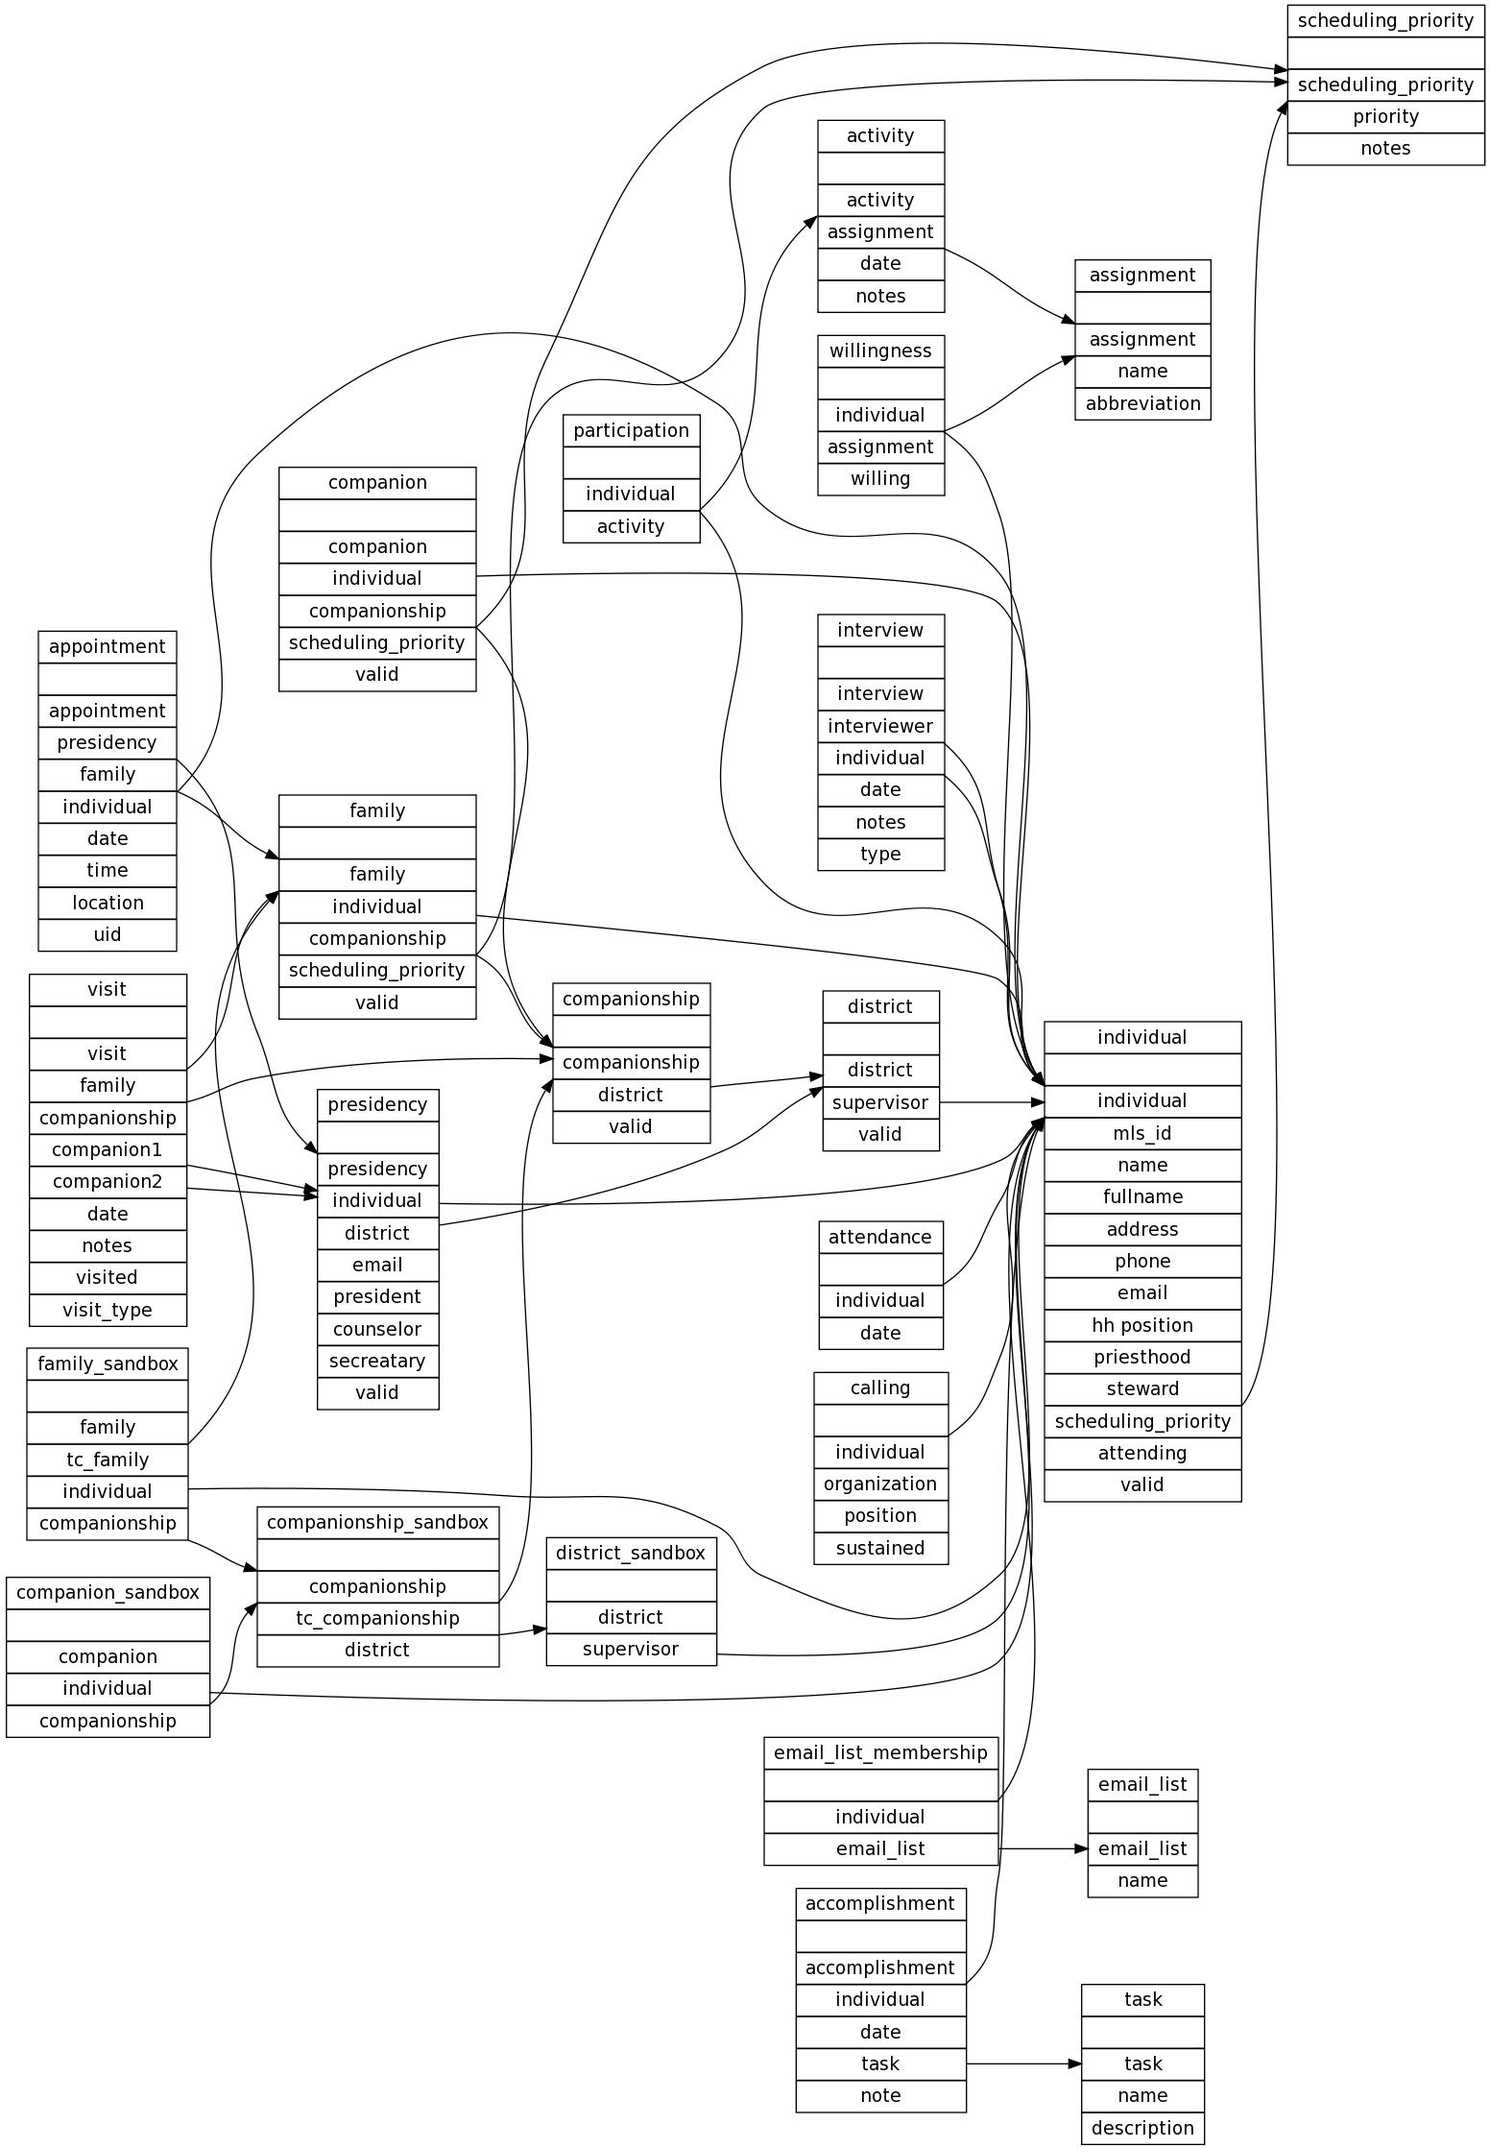
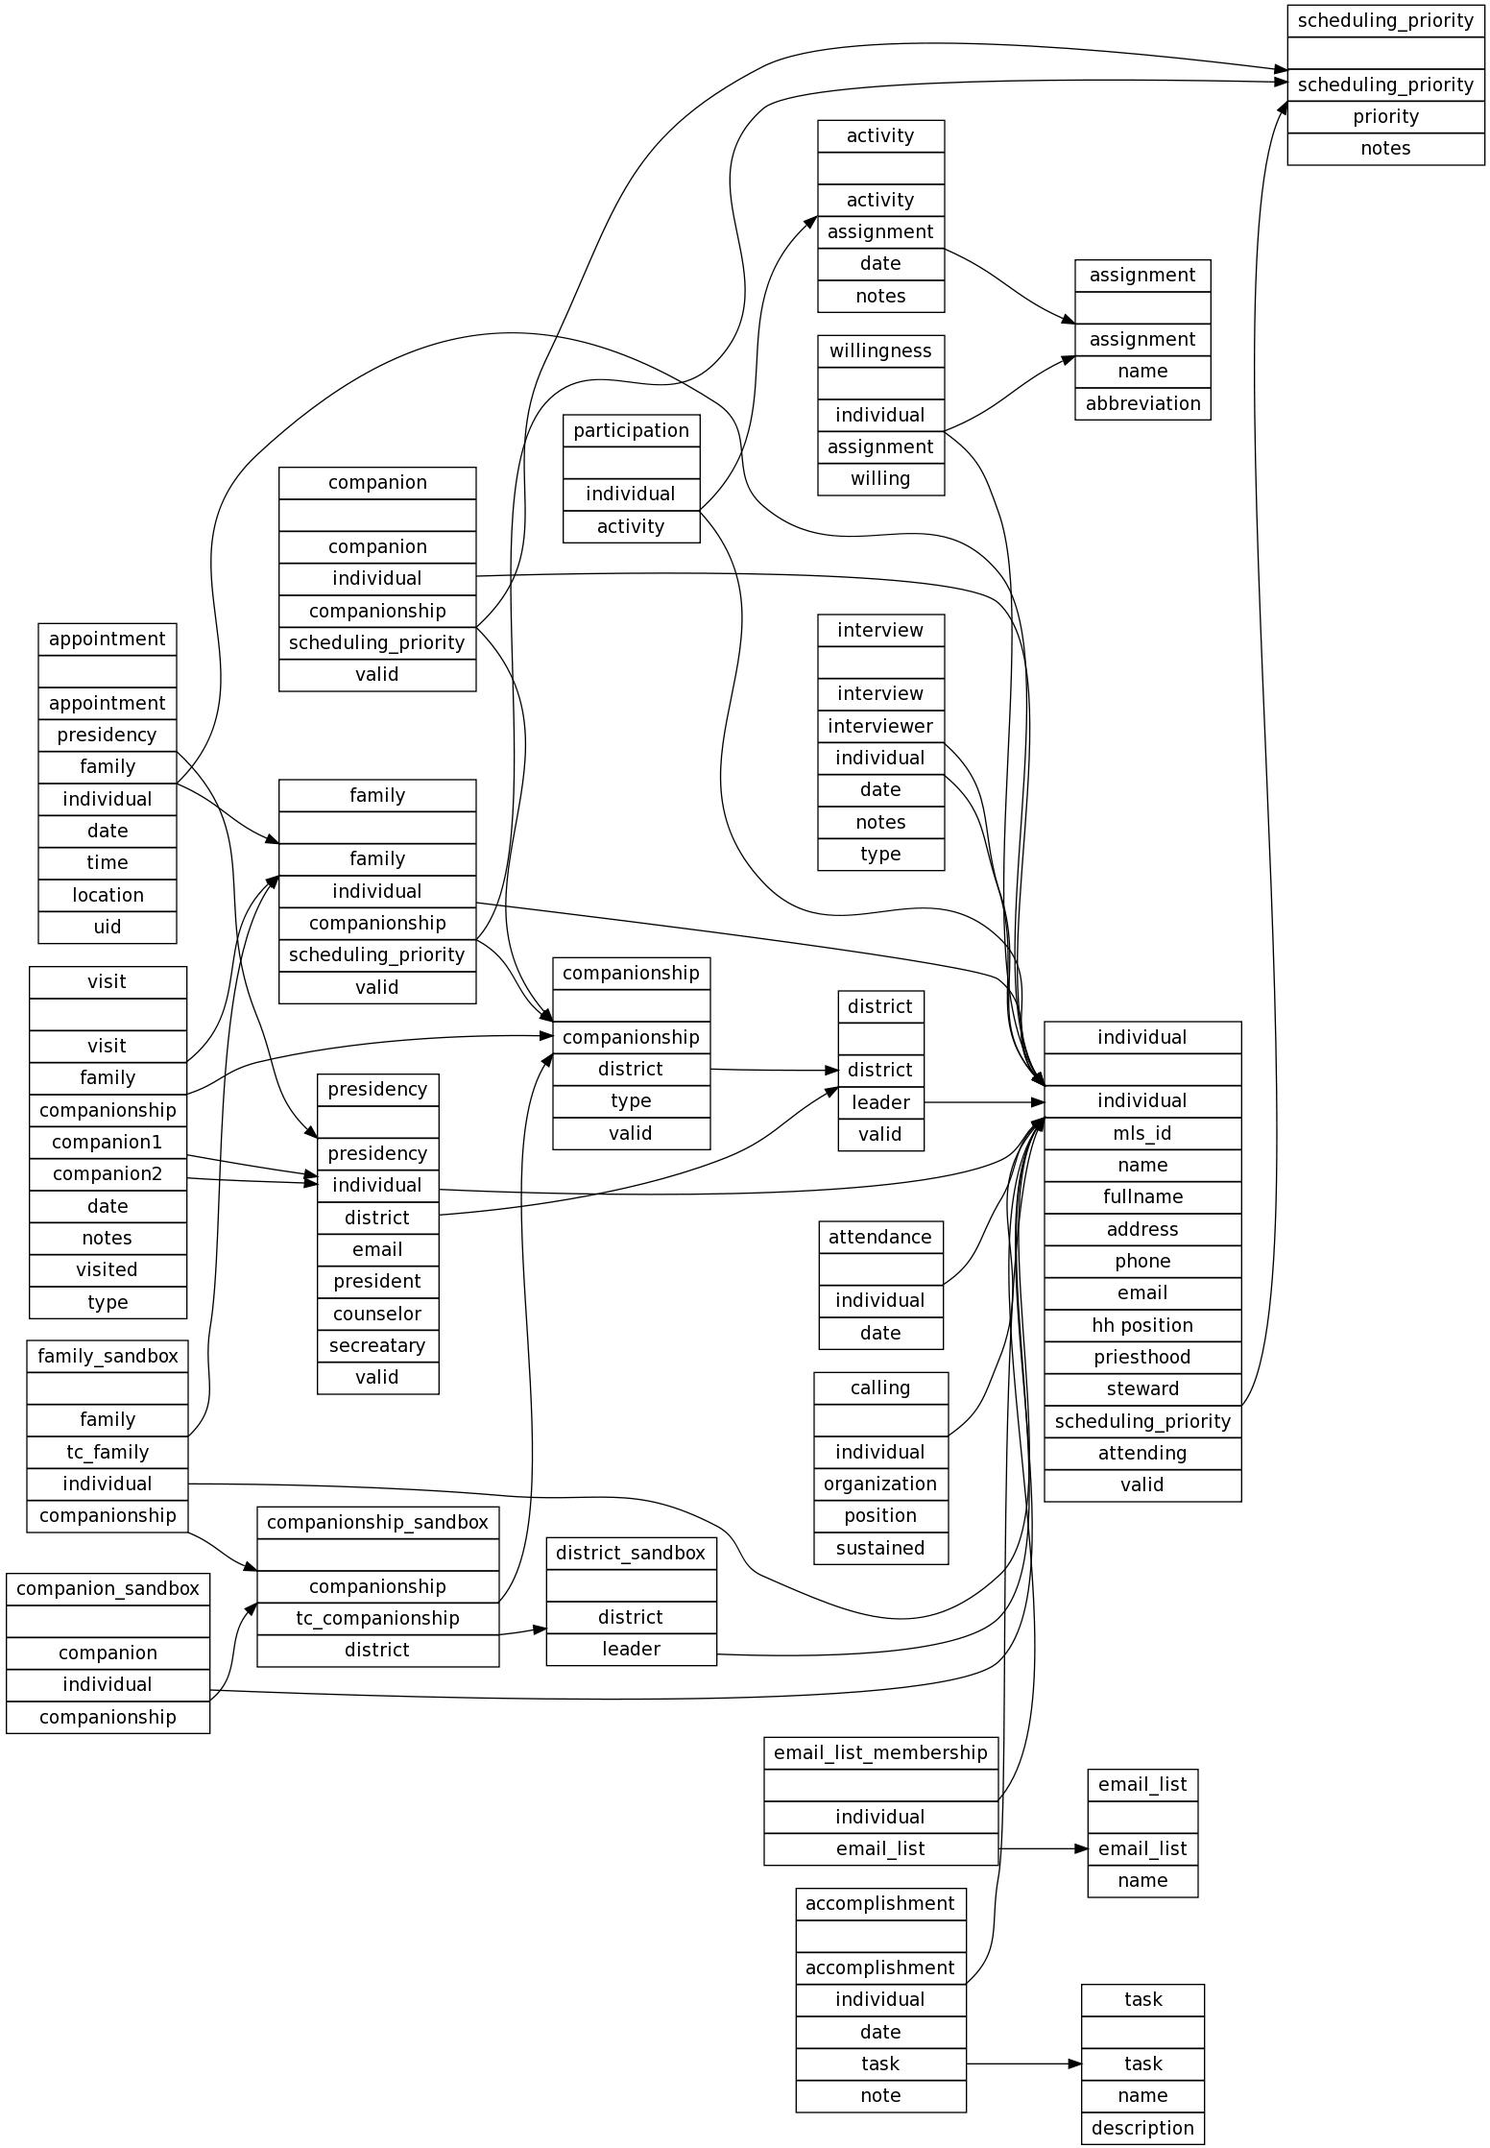
change supervisor field in tc_district and tc_district_sandbox to leader

diff --git a/inc/class.tc.inc.php b/inc/class.tc.inc.php
@@ -228,13 +228,13 @@ class tc
 		$this->t->set_var('ht_sandbox_link',$GLOBALS['phpgw']->link('/tc/index.php','menuaction=tc.tc.ht_sandbox'));
 		$this->t->set_var('ht_sandbox_link_title','Hometeaching Sandbox'); 
 
-		$sql = "SELECT * FROM tc_district AS td JOIN tc_individual AS ti WHERE td.supervisor=ti.individual AND td.valid=1 ORDER BY td.district ASC";
+		$sql = "SELECT * FROM tc_district AS td JOIN tc_individual AS ti WHERE td.leader=ti.individual AND td.valid=1 ORDER BY td.district ASC";
 		$this->db->query($sql,__LINE__,__FILE__);
 		$i=0;
 		while ($this->db->next_record()) {
 			$districts[$i]['district'] = $this->db->f('district');
 			$districts[$i]['name'] = $this->db->f('name');
-			$districts[$i]['supervisor'] = $this->db->f('supervisor');
+			$districts[$i]['leader'] = $this->db->f('leader');
 			$i++;
 		}
 
@@ -260,10 +260,10 @@ class tc
 		for ($i=0; $i < count($districts); $i++) {
 			$this->t->set_var('district_number',$districts[$i]['district']);
 			$this->t->set_var('district_name',$districts[$i]['name']);	
-			$supervisor = $districts[$i]['supervisor'];
+			$leader = $districts[$i]['leader'];
 
 			// Select all the unique companionship numbers for this district
-			$sql = "SELECT distinct companionship FROM tc_companionship where valid=1 and district=". $districts[$i]['district'];
+			$sql = "SELECT DISTINCT companionship FROM tc_companionship WHERE type='H' AND valid=1 AND district=". $districts[$i]['district'];
 			$this->db->query($sql,__LINE__,__FILE__);
 			$j=0; $unique_companionships = '';
 			while ($this->db->next_record()) {
@@ -539,13 +539,13 @@ class tc
 			$this->db->query($sql,__LINE__,__FILE__);
 			while ($this->db->next_record()) {
 				$district = $this->db->f('district');
-				$supervisor = $this->db->f('supervisor');
-				$sql = "INSERT INTO tc_district_sandbox (district,supervisor) VALUES (\"$district\",\"$supervisor\")";
+				$leader = $this->db->f('leader');
+				$sql = "INSERT INTO tc_district_sandbox (district,leader) VALUES (\"$district\",\"$leader\")";
 				$this->db2->query($sql,__LINE__,__FILE__);
 			}
 			
 			# populate family, companion, and companionship tables
-			$sql = "SELECT * FROM tc_companionship WHERE valid=1";
+			$sql = "SELECT * FROM tc_companionship WHERE type='H' AND valid=1";
 			$this->db->query($sql,__LINE__,__FILE__);
 			while ($this->db->next_record()) {
 				$companionship = $this->db->f('companionship');
@@ -758,7 +758,7 @@ class tc
 		$email_contents = "Please review the following changes to home teaching.\r\n\r\n";
 		// list all companionships deleted
 		$email_contents .= "Removed Companionships\r\n\r\n";
-		$sql = "SELECT * FROM tc_companionship WHERE companionship NOT IN (SELECT tc_companionship FROM tc_companionship_sandbox) AND valid=1";
+		$sql = "SELECT * FROM tc_companionship WHERE companionship NOT IN (SELECT tc_companionship FROM tc_companionship_sandbox) AND type='H' AND valid=1";
 		$this->db->query($sql,__LINE__,__FILE__);
 		while ($this->db->next_record()) {
 			$companionship = $this->db->f('companionship');
@@ -804,7 +804,7 @@ class tc
 		
 		// list all companionships with changes
 		$email_contents .= "Modified Companionships\r\n\r\n";
-		$sql = "SELECT tcps.* FROM tc_companionship AS tc JOIN tc_companionship_sandbox AS tcps WHERE tc.companionship=tcps.tc_companionship AND tc.valid=1";
+		$sql = "SELECT tcps.* FROM tc_companionship AS tc JOIN tc_companionship_sandbox AS tcps WHERE tc.companionship=tcps.tc_companionship AND tc.type='H' AND tc.valid=1";
 		$this->db->query($sql,__LINE__,__FILE__);
 		while ($this->db->next_record()) {
 			$companionship = $this->db->f('companionship');
@@ -933,7 +933,7 @@ class tc
 
 		if($action == 'save') {
 			// Get a list of all the companionships in this district
-			$sql = "SELECT distinct companionship FROM tc_companionship where valid=1 and district=". $district;
+			$sql = "SELECT DISTINCT companionship FROM tc_companionship WHERE type='H' AND valid=1 AND district=". $district;
 			$this->db->query($sql,__LINE__,__FILE__);
 			$j=0; $unique_companionships = '';
 			while ($this->db->next_record()) {
@@ -986,7 +986,7 @@ class tc
 		}      
 
 		// Select all the unique companionship numbers for this district
-		$sql = "SELECT distinct companionship FROM tc_companionship where valid=1 and district=". $district;
+		$sql = "SELECT DISTINCT companionship FROM tc_companionship WHERE type='H' AND valid=1 AND district=". $district;
 		$this->db->query($sql,__LINE__,__FILE__);
 		$j=0; $unique_companionships = '';
 		while ($this->db->next_record()) {
@@ -999,8 +999,7 @@ class tc
 		for ($j=0; $j < count($unique_companionships); $j++) {
 			$companion_table_entry = "";
 			// Select all the companions in each companionship
-			$sql = "SELECT * FROM tc_companionship where valid=1 and ".
-			"companionship=". $unique_companionships[$j]['companionship'];
+			$sql = "SELECT * FROM tc_companionship WHERE type='H' AND valid=1 AND companionship=". $unique_companionships[$j]['companionship'];
 			$this->db->query($sql,__LINE__,__FILE__);
 
 			while ($this->db->next_record()) {
@@ -2214,7 +2213,7 @@ class tc
 			$i++;
 		}
 		// add any YM that are home teachers
-		$sql = "SELECT * FROM tc_companionship where valid=1";
+		$sql = "SELECT * FROM tc_companionship WHERE type='H' AND valid=1";
 		$this->db->query($sql,__LINE__,__FILE__);
 		while ($this->db->next_record()) {
 			$tmp_individual = $this->db->f('individual');
@@ -2238,15 +2237,15 @@ class tc
 					$appointment = $entry['appointment'];
 					$location = $entry['location'];
 					if($location == "") {
-						$supervisor = $entry['supervisor'];
-						$supervisor_array = explode(",", $individ2name[$supervisor]);
-						$supervisor_last_name = $supervisor_array[0];
-						$sql = "SELECT * FROM tc_individual where individual='$supervisor'";
+						$leader = $entry['leader'];
+						$leader_array = explode(",", $individ2name[$leader]);
+						$leader_last_name = $leader_array[0];
+						$sql = "SELECT * FROM tc_individual where individual='$leader'";
 						$this->db2->query($sql,__LINE__,__FILE__);
 						if($this->db2->next_record()) {
-							$supervisor_address = $this->db2->f('address');
+							$leader_address = $this->db2->f('address');
 						}
-						$location = "$supervisor_last_name"." home ($supervisor_address)";
+						$location = "$leader_last_name"." home ($leader_address)";
 					}
 					if($indiv == 0) { $location = ""; }
 
@@ -2288,14 +2287,14 @@ class tc
 		}
 
 		// Get the Districts
-		$sql = "SELECT * FROM tc_district AS td JOIN (tc_presidency AS tp, tc_individual AS ti) WHERE td.district=tp.district AND td.supervisor=ti.individual AND td.valid=1 ORDER BY td.district ASC";
+		$sql = "SELECT * FROM tc_district AS td JOIN (tc_presidency AS tp, tc_individual AS ti) WHERE td.district=tp.district AND td.leader=ti.individual AND td.valid=1 ORDER BY td.district ASC";
 		$this->db->query($sql,__LINE__,__FILE__);
 		$i=0;
 		while ($this->db->next_record()) {
 			$district = $this->db->f('district');
 			$districts[$i]['district'] = $this->db->f('district');
 			$districts[$i]['name'] = $this->db->f('name');
-			$districts[$i]['supervisor'] = $this->db->f('supervisor');
+			$districts[$i]['leader'] = $this->db->f('leader');
 			$districts[$i]['presidency'] = $this->db->f('presidency');
 			$i++;
 		}
@@ -2315,15 +2314,15 @@ class tc
 			$table_data=""; $appt_table_data="";
 			$this->t->set_var('district_number',$districts[$d]['district']);
 			$this->t->set_var('district_name',$districts[$d]['name']);	
-			$supervisor = $districts[$d]['supervisor'];
-			$supervisor_array = explode(",", $supervisor);
-			$supervisor_last_name = $supervisor_array[0];
-			$sql = "SELECT * FROM tc_individual where individual='$supervisor'";
+			$leader = $districts[$d]['leader'];
+			$leader_array = explode(",", $leader);
+			$leader_last_name = $leader_array[0];
+			$sql = "SELECT * FROM tc_individual where individual='$leader'";
 			$this->db2->query($sql,__LINE__,__FILE__);
 			if($this->db2->next_record()) {
-				$supervisor_address = $this->db2->f('address');
+				$leader_address = $this->db2->f('address');
 			}
-			$location = "$supervisor_last_name"." home ($supervisor_address)";
+			$location = "$leader_last_name"." home ($leader_address)";
 			$table_title = "District ".$districts[$d]['district'].": ".$districts[$d]['name'].": All Individuals with Interviews Not Completed";
 			$appt_table_title = "District ".$districts[$d]['district'].": ".$districts[$d]['name'].": Interview Appointment Slots";
 			$this->t->set_var('table_title',$table_title);
@@ -2337,7 +2336,7 @@ class tc
 				$appointment = $this->db->f('appointment');
 				$indiv = $this->db->f('individual');
 				$location = $this->db->f('location');
-				if(($location == "") && ($indiv > 0)) { $location = "$supervisor_last_name"." home ($supervisor_address)"; }
+				if(($location == "") && ($indiv > 0)) { $location = "$leader_last_name"." home ($leader_address)"; }
 
 				$date = $this->db->f('date');
 				$date_array = explode("-",$date);
@@ -2370,7 +2369,7 @@ class tc
 				$appt_table_data.= 'name="appt_notes['.$appointment.'][location]" value="'.$location.'">';
 
 				$appt_table_data.= '<input type=hidden name="appt_notes['.$appointment.'][appointment]" value="'.$appointment.'">';
-				$appt_table_data.= '<input type=hidden name="appt_notes['.$appointment.'][supervisor]" value="'.$supervisor.'">';
+				$appt_table_data.= '<input type=hidden name="appt_notes['.$appointment.'][leader]" value="'.$leader.'">';
 
 				$tr_color = $this->nextmatchs->alternate_row_color($tr_color);
 				$this->t->set_var('tr_color',$tr_color);
@@ -2382,7 +2381,7 @@ class tc
 			// INTERVIEW SCHEDULING TABLE
 
 			// Select all the unique companionship numbers for this district
-			$sql = "SELECT distinct companionship FROM tc_companionship where valid=1 and district=". $districts[$d]['district'];
+			$sql = "SELECT DISTINCT companionship FROM tc_companionship WHERE type='H' AND valid=1 AND district=". $districts[$d]['district'];
 			$this->db->query($sql,__LINE__,__FILE__);
 			$j=0; $unique_companionships = '';
 			while ($this->db->next_record())
@@ -2444,7 +2443,7 @@ class tc
 						$link_data['interview'] = '';
 						$link_data['action'] = 'add';
 						$link_data['type'] = 'H';
-						$link_data['interviewer'] = $districts[$d]['supervisor'];
+						$link_data['interviewer'] = $districts[$d]['leader'];
 						$link = $GLOBALS['phpgw']->link('/tc/index.php',$link_data);
 						$table_data.= "<tr bgcolor=". $this->t->get_var('tr_color') ."><td title=\"$phone\"><a href=$link>$name</a></td>";
 						$table_data.= "<td align=center>$phone</td>";
@@ -3092,13 +3091,13 @@ class tc
 		else if($current_month >= 7 && $current_month <= 9) { $current_month=9; }
 		else if($current_month >= 10 && $current_month <= 12) { $current_month=12; }
 
-		$sql = "SELECT * FROM tc_district AS td JOIN tc_individual AS ti WHERE td.supervisor=ti.individual AND td.valid=1 ORDER BY td.district ASC";
+		$sql = "SELECT * FROM tc_district AS td JOIN tc_individual AS ti WHERE td.leader=ti.individual AND td.valid=1 ORDER BY td.district ASC";
 		$this->db->query($sql,__LINE__,__FILE__);
 		$i=0;
 		while ($this->db->next_record()) {
 			$districts[$i]['district'] = $this->db->f('district');
 			$districts[$i]['name'] = $this->db->f('name');
-			$districts[$i]['supervisor'] = $this->db->f('supervisor');
+			$districts[$i]['leader'] = $this->db->f('leader');
 			$i++;
 		}
 
@@ -3122,10 +3121,10 @@ class tc
 		for ($i=0; $i < count($districts); $i++) {
 			$this->t->set_var('district_number',$districts[$i]['district']);
 			$this->t->set_var('district_name',$districts[$i]['name']);	
-			$supervisor = $districts[$i]['supervisor'];
+			$leader = $districts[$i]['leader'];
 
 			// Select all the unique companionship numbers for this district
-			$sql = "SELECT distinct companionship FROM tc_companionship where valid=1 and district=". $districts[$i]['district'];
+			$sql = "SELECT DISTINCT companionship FROM tc_companionship WHERE type='H' AND valid=1 AND district=". $districts[$i]['district'];
 			$this->db->query($sql,__LINE__,__FILE__);
 			$j=0; $unique_companionships = '';
 			while ($this->db->next_record()) {
@@ -3153,7 +3152,7 @@ class tc
 					$phone = $indiv_phone[$individual];
 					$link_data['menuaction'] = 'tc.tc.int_update';
 					$link_data['companionship'] = $companionship;
-					$link_data['interviewer'] = $supervisor;
+					$link_data['interviewer'] = $leader;
 					$link_data['individual'] = $individual;
 					$link_data['name'] = $name;
 					$link_data['interview'] = '';
@@ -4058,15 +4057,15 @@ class tc
 							$family_address = $familyid2address[$family];
 							$location = "$family_last_name"." home ($family_address)";
 						} else if($indiv > 0) {
-							$supervisor_name_array = explode(",",$presidency2name[$presidency]);
-							$supervisor_last_name = $supervisor_name_array[0];
+							$leader_name_array = explode(",",$presidency2name[$presidency]);
+							$leader_last_name = $leader_name_array[0];
 							#print "presidency2indiv: $presidency $presidency2indiv[$presidency]<br>";
 							$sql = "SELECT * FROM tc_individual where individual='$presidency2indiv[$presidency]'";
 							$this->db2->query($sql,__LINE__,__FILE__);
 							if($this->db2->next_record()) {
-								$supervisor_address = $this->db2->f('address');
+								$leader_address = $this->db2->f('address');
 							}
-							$location = "$supervisor_last_name"." home ($supervisor_address)";
+							$location = "$leader_last_name"." home ($leader_address)";
 						}
 					}
 
@@ -4207,14 +4206,14 @@ class tc
 						$family_address = $familyid2address[$family];
 						$location = "$family_last_name"." home ($family_address)";
 					} else if($indiv > 0) {
-						$supervisor_name_array = explode(",",$presidency2name[$presidency]);
-						$supervisor_last_name = $supervisor_name_array[0];
+						$leader_name_array = explode(",",$presidency2name[$presidency]);
+						$leader_last_name = $leader_name_array[0];
 						$sql = "SELECT * FROM tc_individual where individual='$presidency2indiv[$presidency]'";
 						$this->db2->query($sql,__LINE__,__FILE__);
 						if($this->db2->next_record()) {
-							$supervisor_address = $this->db2->f('address');
+							$leader_address = $this->db2->f('address');
 						}
-						$location = "$supervisor_last_name"." home ($supervisor_address)";
+						$location = "$leader_last_name"." home ($leader_address)";
 					}
 				}
 
@@ -4563,7 +4562,7 @@ class tc
 			$name = "High Priests";
 			$indiv = 0;
 			$valid = 0;
-			$this->db2->query("INSERT INTO tc_district (district,supervisor,valid) " .
+			$this->db2->query("INSERT INTO tc_district (district,leader,valid) " .
 			                  "VALUES ('" . $district . "','" . 
 			                  $indiv . "','" . $valid . "'" .
 			                  ")",__LINE__,__FILE__);
@@ -4581,7 +4580,7 @@ class tc
 
 				// If we have a valid district, add it to the district table
 				if($district > 0) {
-					$this->db2->query("INSERT INTO tc_district (district,supervisor,valid) " .
+					$this->db2->query("INSERT INTO tc_district (district,leader,valid) " .
 					                  "VALUES ('" . $district . "','" . 
 					                  $indiv . "','" . $valid . "'" .
 					                  ")",__LINE__,__FILE__);
